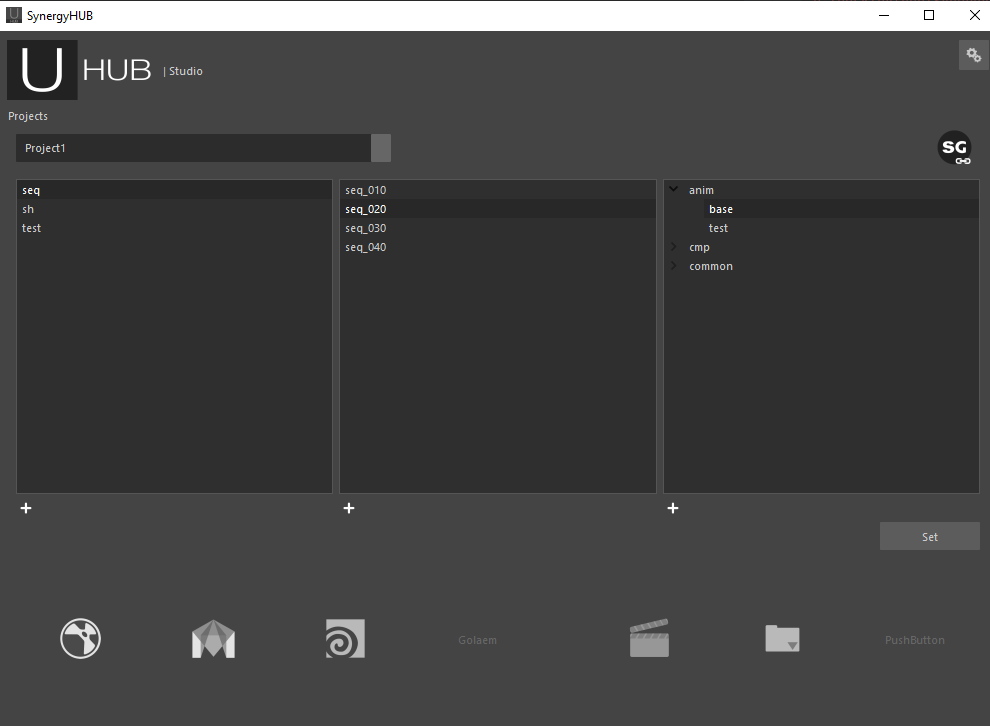
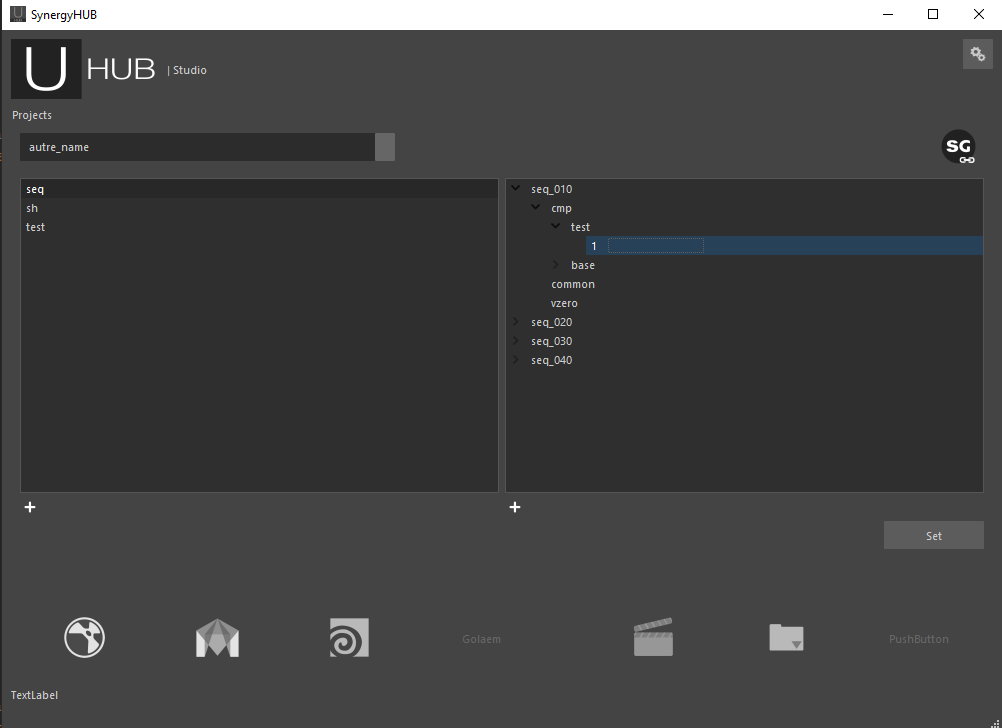
new interface

diff --git a/app/syhub/interfaces/synergy_ui.py b/app/syhub/interfaces/synergy_ui.py
@@ -26,6 +26,7 @@ class Synergy(QtWidgets.QMainWindow, Ui_SynHubUi):
         self.task = None
         self.variant = None
         self.project = None
+        self.version = None
         self.sequence = None
         self.validated_status = False
 
@@ -62,8 +63,8 @@ class Synergy(QtWidgets.QMainWindow, Ui_SynHubUi):
         self.projectsCb.editTextChanged.connect(self.reset_ui)
 
         # Task TreeWidget
-        self.treeWidgetTask.setHeaderHidden(True)
-        self.treeWidgetTask.setColumnCount(3)
+        self.listWidgetShots.setHeaderHidden(True)
+        self.listWidgetShots.setColumnCount(3)
 
     def set_connections(self):
         """ Set all connections to buttons
@@ -71,9 +72,7 @@ class Synergy(QtWidgets.QMainWindow, Ui_SynHubUi):
         # setting completer for listWidget Sequence
         self.listWidgetSequence.currentItemChanged.connect(self.set_sequence)
         # setting completer for listWidget Shot
-        self.listWidgetShots.currentItemChanged.connect(self.set_shot)
-        # setting completer for listWidget Task
-        self.treeWidgetTask.itemSelectionChanged.connect(self.set_task)
+        self.listWidgetShots.itemSelectionChanged.connect(self.set_shot)
 
         # Validate Button
         self.pbValidate.clicked.connect(self.validate)
@@ -85,7 +84,6 @@ class Synergy(QtWidgets.QMainWindow, Ui_SynHubUi):
         # Create Entities
         self.seqAdd.clicked.connect(lambda: create_entity.show(self, cst.Entities.SEQUENCE))
         self.shotAdd.clicked.connect(lambda: create_entity.show(self, cst.Entities.SHOT))
-        self.taskAdd.clicked.connect(lambda: create_entity.show(self, cst.Entities.TASK))
 
         # Nuke
         self.soft_1.clicked.connect(lambda: self.launch_app("launcher.nuke()"))
@@ -159,32 +157,25 @@ class Synergy(QtWidgets.QMainWindow, Ui_SynHubUi):
         self._project.set_sequence(sequence)
         self.shotAdd.setEnabled(True)
         self.listWidgetShots.clear()
-        self.listWidgetShots.addItems(self._project.get_shots())
-        self.treeWidgetTask.clear()
+        self._add_items_to_shot_widgets(self._project.get_shots())
 
     def set_shot(self):
         item = self.listWidgetShots.currentItem()
-        if not item:
-            return
-        shot = str(item.text())
-        self.shot = shot
-        self._project.set_shot(shot)
-        self.treeWidgetTask.clear()
-        self.treeWidgetTask.setEnabled(True)
-        self._add_items_to_task_widgets(self._project.get_tasks())
-        self.taskAdd.setEnabled(True)
 
-    def set_task(self):
-        item = self.treeWidgetTask.currentItem()
-        if item is None:
+        if not item:
             return
         if item.parent() is None:
             return
+        if item.parent().parent() is None:
+            return
 
-        task = item.parent().text(0)
-        variant = item.text(0)
-        self.task = task
-        self.variant = variant
+        self.shot = item.parent().parent().parent().text(0)
+        self.task = item.parent().parent().text(0)
+        self.variant = item.parent().text(0)
+        self.version = item.text(0)
+
+        self._project.set_shot(self.shot)
+        self._project.set_task(self.task)
         self.pbValidate.setEnabled(True)
 
     def validate(self):
@@ -198,7 +189,7 @@ class Synergy(QtWidgets.QMainWindow, Ui_SynHubUi):
             self._enable_job_ui()
             self.pbValidate.setText("Unset")
             self.set_variables()
-            self.show_label_info(f"{self.shot} => {self.task}  :  {self.variant}")
+            self.show_label_info(f"{self.shot} => {self.task}  :  {self.variant}  v{self.version}")
         else:
             self.validated_status = False
             self._enable_job_ui(False)
@@ -241,7 +232,7 @@ class Synergy(QtWidgets.QMainWindow, Ui_SynHubUi):
         self.projectsCb.setEnabled(False if status else True)
         self.listWidgetSequence.setEnabled(False if status else True)
         self.listWidgetShots.setEnabled(False if status else True)
-        self.treeWidgetTask.setEnabled(False if status else True)
+        # self.treeWidgetTask.setEnabled(False if status else True)
         self.seqAdd.setEnabled(False if status else True)
         self.shotAdd.setEnabled(False if status else True)
 
@@ -250,16 +241,24 @@ class Synergy(QtWidgets.QMainWindow, Ui_SynHubUi):
                     self.soft_4, self.soft_5, self.soft_6, self.soft_7]:
             btn.setEnabled(status)
 
-    def _add_items_to_task_widgets(self, tasks):
+    def _add_items_to_shot_widgets(self, shots):
+
         items = []
-        for task in tasks:
-            item = QtWidgets.QTreeWidgetItem(self.treeWidgetTask)
-            item.setText(0, task)
-            for var in self._project.get_variants(task):
-                sub_item = QtWidgets.QTreeWidgetItem(item)
-                sub_item.setText(0, var)
-                for version in self._project.get_versions(task, var):
-                    sub_vers_item = QtWidgets.QTreeWidgetItem(sub_item)
-                    sub_vers_item.setText(0, version)
-            items.append(item)
-        self.treeWidgetTask.addTopLevelItems(items)
+        for shot in shots:
+            shot_item = QtWidgets.QTreeWidgetItem(self.listWidgetShots)
+            shot_item.setText(0, shot)
+
+            for task in self._project.get_tasks(shot):
+                task_item = QtWidgets.QTreeWidgetItem(shot_item)
+                task_item.setText(0, task)
+
+                for variant in self._project.get_variants(shot, task):
+                    variant_item = QtWidgets.QTreeWidgetItem(task_item)
+                    variant_item.setText(0, variant)
+
+                    for version in self._project.get_versions(shot, task, variant):
+                        version_item = QtWidgets.QTreeWidgetItem(variant_item)
+                        version_item.setText(0, version)
+
+            items.append(shot_item)
+        self.listWidgetShots.addTopLevelItems(items)

diff --git a/app/resources/pyui/syn_hub_ui.py b/app/resources/pyui/syn_hub_ui.py
@@ -127,14 +127,16 @@ class Ui_SynHubUi(object):
 
         self.horizontalLayout_2.addLayout(self.verticalLayout)
 
-        self.verticalLayout_2 = QVBoxLayout()
-        self.verticalLayout_2.setObjectName(u"verticalLayout_2")
-        self.listWidgetShots = QListWidget(self.groupBox)
+        self.verticalLayout_4 = QVBoxLayout()
+        self.verticalLayout_4.setObjectName(u"verticalLayout_4")
+        self.listWidgetShots = QTreeWidget(self.groupBox)
+        __qtreewidgetitem = QTreeWidgetItem()
+        __qtreewidgetitem.setText(0, u"1");
+        self.listWidgetShots.setHeaderItem(__qtreewidgetitem)
         self.listWidgetShots.setObjectName(u"listWidgetShots")
         self.listWidgetShots.setEnabled(False)
-        self.listWidgetShots.setMinimumSize(QSize(0, 0))
 
-        self.verticalLayout_2.addWidget(self.listWidgetShots)
+        self.verticalLayout_4.addWidget(self.listWidgetShots)
 
         self.shotAdd = QPushButton(self.groupBox)
         self.shotAdd.setObjectName(u"shotAdd")
@@ -145,32 +147,7 @@ class Ui_SynHubUi(object):
         self.shotAdd.setIconSize(QSize(12, 12))
         self.shotAdd.setFlat(True)
 
-        self.verticalLayout_2.addWidget(self.shotAdd)
-
-
-        self.horizontalLayout_2.addLayout(self.verticalLayout_2)
-
-        self.verticalLayout_4 = QVBoxLayout()
-        self.verticalLayout_4.setObjectName(u"verticalLayout_4")
-        self.treeWidgetTask = QTreeWidget(self.groupBox)
-        __qtreewidgetitem = QTreeWidgetItem()
-        __qtreewidgetitem.setText(0, u"1");
-        self.treeWidgetTask.setHeaderItem(__qtreewidgetitem)
-        self.treeWidgetTask.setObjectName(u"treeWidgetTask")
-        self.treeWidgetTask.setEnabled(False)
-
-        self.verticalLayout_4.addWidget(self.treeWidgetTask)
-
-        self.taskAdd = QPushButton(self.groupBox)
-        self.taskAdd.setObjectName(u"taskAdd")
-        self.taskAdd.setEnabled(False)
-        self.taskAdd.setMinimumSize(QSize(12, 12))
-        self.taskAdd.setMaximumSize(QSize(20, 20))
-        self.taskAdd.setIcon(icon3)
-        self.taskAdd.setIconSize(QSize(12, 12))
-        self.taskAdd.setFlat(True)
-
-        self.verticalLayout_4.addWidget(self.taskAdd)
+        self.verticalLayout_4.addWidget(self.shotAdd)
 
 
         self.horizontalLayout_2.addLayout(self.verticalLayout_4)
@@ -330,10 +307,6 @@ class Ui_SynHubUi(object):
         self.shotAdd.setToolTip(QCoreApplication.translate("SynHubUi", u"Create New Shot", None))
 #endif // QT_CONFIG(tooltip)
         self.shotAdd.setText("")
-#if QT_CONFIG(tooltip)
-        self.taskAdd.setToolTip(QCoreApplication.translate("SynHubUi", u"Create New Shot", None))
-#endif // QT_CONFIG(tooltip)
-        self.taskAdd.setText("")
         self.pbValidate.setText(QCoreApplication.translate("SynHubUi", u"Set", None))
         self.groupBox_2.setTitle("")
         self.soft_1.setText("")
@@ -343,6 +316,6 @@ class Ui_SynHubUi(object):
         self.soft_5.setText("")
         self.soft_6.setText("")
         self.soft_7.setText(QCoreApplication.translate("SynHubUi", u"PushButton", None))
-        self.labelInfo.setText(QCoreApplication.translate("SynHubUi", u"TextLabel", None))
+        self.labelInfo.setText("")
     # retranslateUi
 

diff --git a/app/syhub/core/projects.py b/app/syhub/core/projects.py
@@ -61,26 +61,23 @@ class Projects(object):
             raise NoShotsFoundError(self._sequence)
         return shots
 
-    def get_tasks(self):
+    def get_tasks(self, shot):
         if not self._project:
             raise NoProjectSetError()
 
         if not self._sequence:
             raise NoSequenceSetError()
 
-        if not self._shot:
-            raise NoShotSetError()
-
         _shot_dir = self._pw.get_shot_path(
             self._sequence,
-            self._shot
+            shot
         )
         tasks = self.disk_wrapper.list_dir(_shot_dir)
         if not tasks:
             raise NoTasksFoundError(_shot_dir)
         return tasks
 
-    def get_variants(self, task):
+    def get_variants(self, shot, task):
         """ TODO
         """
         if not self._project:
@@ -89,44 +86,39 @@ class Projects(object):
         if not self._sequence:
             raise NoSequenceSetError()
 
-        if not self._shot:
-            raise NoShotSetError()
-
         _task_dir = self._pw.get_task_path(
             self._sequence,
-            self._shot,
+            shot,
             task
         )
 
-        _variant = []
+        _variants = []
         for root, dirs, files in self.disk_wrapper.walk(_task_dir):
             if "image" in root:
                 continue
             for f in files:
                 _path = os.path.join(root, f)
                 fields = self._pw.get_fields_from_path(_path)
-                _variant.append(fields.get("variant"))
-        return list(set(_variant))
+                _variants.append(fields.get("variant"))
 
-    def get_versions(self, task, variant):
+        return list(set(_variants))
+
+    def get_versions(self, shot, task, variant):
         """ TODO
-                """
+        """
         if not self._project:
             raise NoProjectSetError()
 
         if not self._sequence:
             raise NoSequenceSetError()
 
-        if not self._shot:
-            raise NoShotSetError()
-
         _task_dir = self._pw.get_task_path(
             self._sequence,
-            self._shot,
+            shot,
             task
         )
 
-        _variant = []
+        _versions = []
         for root, dirs, files in self.disk_wrapper.walk(_task_dir):
             if "image" in root:
                 continue
@@ -135,8 +127,9 @@ class Projects(object):
                 fields = self._pw.get_fields_from_path(_path)
                 if fields.get("variant") != variant:
                     continue
-                _variant.append(fields.get("version"))
-        return list(set(_variant))
+                _versions.append(fields.get("version"))
+
+        return list(set(_versions))
 
     def set_project(self, project):
         self._project = project
@@ -160,6 +153,6 @@ if __name__ == '__main__':
     path.set_project("autre_name")
     path.set_sequence("seq")
     path.set_shot("seq_010")
-    pprint(path.get_versions("cmp", "base"))
+    pprint(path.get_versions("sh_010", "cmp", "base"))
 
     # print(path._tk.get_fields_from_path("D:\\Desk\\python\\Projects\\autre_name\\sequence\\seq\\seq_010\\cmp\\nuke\\wip\\seq_010-cmp-base-v001.nk"))

diff --git a/app/syhub/interfaces/create_entity.py b/app/syhub/interfaces/create_entity.py
@@ -57,7 +57,6 @@ class CreateEntity(QtWidgets.QDialog, Ui_CreateNewEntity):
             _multiple_entity[cst.Entities.SEQUENCE] = self.parent.listWidgetSequence.currentItem().text()
             _multiple_entity[cst.Entities.SHOT] = self.parent.listWidgetShots.currentItem().text()
 
-        print()
         for i in range(0, _amount):
             i += 1
             entity_value = self._generate_name(_suffix, _step, i, _padding)
